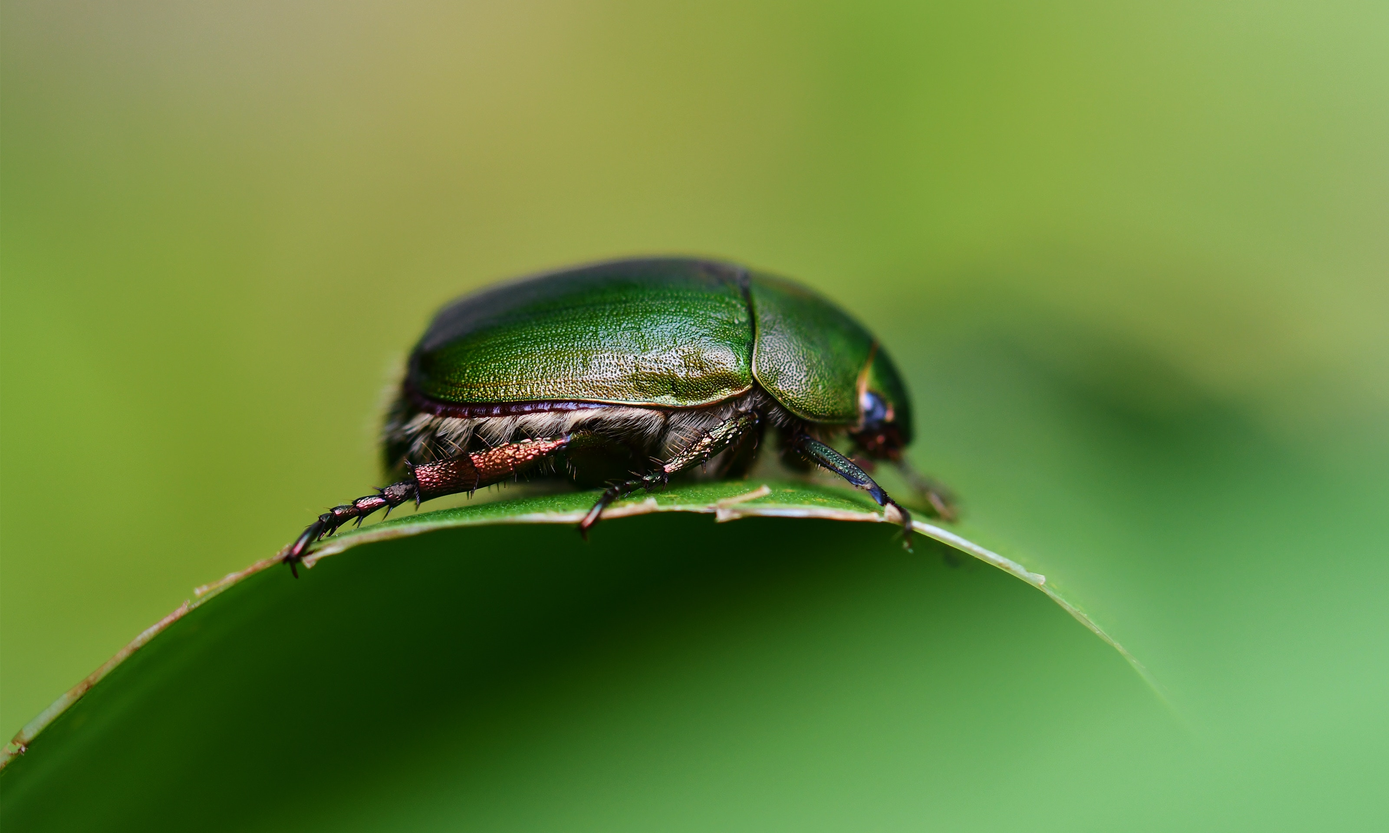
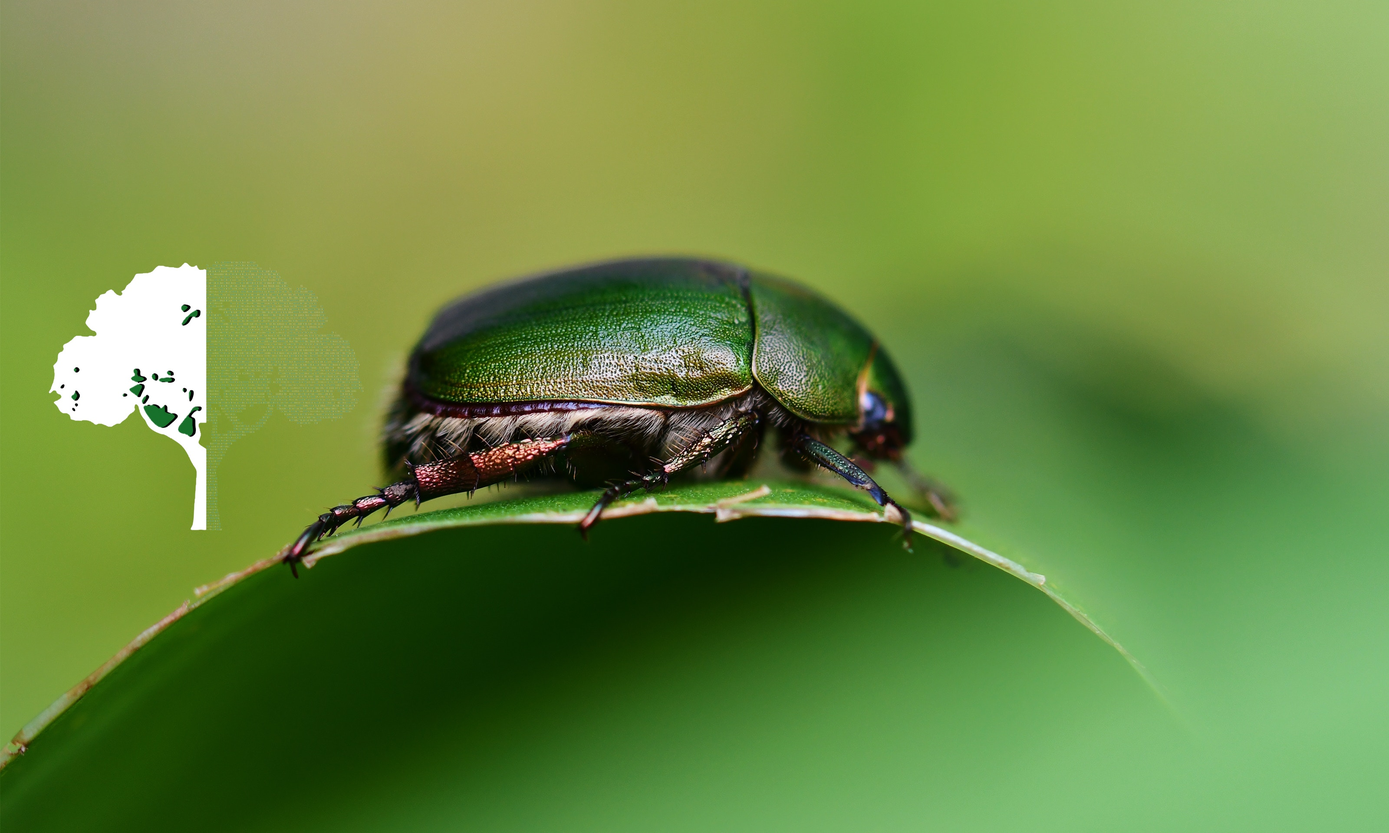
BioComp tree at face image.

Changed region(s): [[0.0312, 0.3125, 0.25, 0.6562]]

diff --git a/theme/README.md b/theme/README.md
@@ -3,5 +3,6 @@ Based on [Attila](https://github.com/arulrajnet/attila)
 Customizations for BioComp:
 20181002:
     * Front image (credit at about)
+    * Front image (included BioComp tree)
     * CSS body, text-align: justify;
     * base.html included fontawesome and academicons
